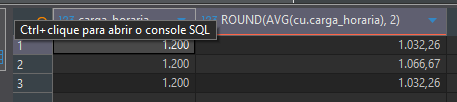
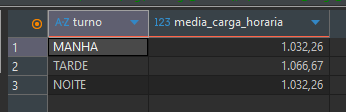
desafio: resolvendo desafios de sql do dia 12/11/25 do 6 ao 16

diff --git a/UC8/2025-11-12 - Revisão banco de dados pt2/resolvendo.md b/UC8/2025-11-12 - Revisão banco de dados pt2/resolvendo.md
@@ -6,10 +6,10 @@
 
 ```sql
 select
-	YEAR(data_nascimento) as ano,
-	COUNT(*) as total_de_alunos
+	year(data_nascimento) as ano,
+	count(id_aluno) as total_de_alunos
 from tb_alunos
-group by year (data_nascimento)
+group by year(data_nascimento)
 order by ano desc 
 ```
 
@@ -44,8 +44,8 @@ having
 
 ```sql
 select
-	cu.carga_horaria,
-	ROUND(AVG(cu.carga_horaria), 2)
+	tu.turno,
+	round(avg(cu.carga_horaria), 2) as media_carga_horaria
 from tb_turmas tu
 inner join tb_cursos cu
 	on cu.id_curso = tu.id_curso_fk 
@@ -61,14 +61,14 @@ group by tu.turno
 - Consulta:
 
 ```sql
-SELECT 
+select 
     do.nome,
-    COUNT(DISTINCT dc.id_curso_fk) AS cursos_diferentes
-FROM tb_docente_curso dc
-INNER JOIN tb_docentes do
-    ON do.id_docente = dc.id_docente_fk
-GROUP BY do.id_docente, do.nome
-HAVING COUNT(DISTINCT dc.id_curso_fk) >= 3;
+    count(dc.id_curso_fk) as cursos_diferentes
+from tb_docente_curso dc
+inner join tb_docentes do
+    on do.id_docente = dc.id_docente_fk
+group by do.id_docente, do.nome
+having cursos_diferentes >= 3
 ```
 
 - Resposta:
@@ -82,7 +82,7 @@ HAVING COUNT(DISTINCT dc.id_curso_fk) >= 3;
 ```sql
 select
     tu.sigla_turma,
-    count(*) as total_alunos
+    count(at.id_aluno_fk) as total_alunos
 from tb_aluno_turma at
 inner join tb_turmas tu
 	on tu.id_turma = at.id_turma_fk 
@@ -114,7 +114,7 @@ inner join tb_turmas tu
 inner join tb_salas sa
 	on sa.id_sala = tu.id_sala_fk 
 group by sa.id_sala, sa.numero_sala 
-having avg(t.total_alunos) < 38
+having media_usada < 38
 ```
 
 - Resposta:
@@ -125,17 +125,191 @@ having avg(t.total_alunos) < 38
 
 - Consulta:
 
+```sql
+select
+	cu.nome_curso,
+	cu.carga_horaria
+from tb_cursos as cu
+inner join tb_turmas tu
+	on tu.id_curso_fk = cu.id_curso 
+where tu.data_fim > CURRENT_DATE() or tu.data_fim is null
+order by cu.carga_horaria desc
+limit 1
+```
 
+- Resposta:
+
+![alt text](image-6.png)
 
 8.	Quais são os cursos (sigla) que possuem exatamente 150 alunos matriculados no total?
+
+- Consulta:
+
+```sql
+select
+	cu.sigla,
+	count(at.id_aluno_fk) as total_alunos
+from tb_cursos cu
+inner join tb_turmas tu
+	on tu.id_curso_fk = cu.id_curso
+inner join tb_aluno_turma at
+	on at.id_turma_fk = tu.id_turma
+group by cu.id_curso
+having total_alunos = 150
+```
+
+- Resposta:
+
+![alt text](image-7.png)
+
 9.	Encontre o nome do aluno e quantas turmas diferentes ele está matriculado, listando apenas os alunos que estão matriculados em quatro turmas ou mais.
+
+- Consulta:
+
+```sql
+select
+	al.nome,
+	count(at.id_turma_fk) as numero_turmas
+from tb_alunos al
+inner join tb_aluno_turma at
+	on at.id_aluno_fk = al.id_aluno
+group by al.id_aluno
+having numero_turmas >= 4
+order by al.nome
+```
+
+- Resposta:
+
+![alt text](image-8.png)
+
 10.	Liste a especialidade do docente e a quantidade de docentes que possuem essa especialidade, exibindo apenas as especialidades que têm apenas um docente associado.
+
+- Consulta:
+
+```sql
+select
+	especialidade,
+	count(id_docente) as docentes
+from tb_docentes
+group by especialidade
+having docentes = 1
+order by especialidade asc
+```
+
+- Resposta:
+
+![alt text](image-9.png)
+
 11.	Encontre a sala (nome e tipo) que é usada por turmas do turno 'MANHA' e possui a maior capacidade.
+
+- Consulta:
+
+```sql
+select
+	sa.nome_sala,
+	sa.tipo
+from tb_salas sa
+inner join tb_turmas tu
+	on tu.id_sala_fk = sa.id_sala
+where turno = "MANHA"
+order by sa.capacidade desc
+limit 1
+```
+
+- Resposta:
+
+![alt text](image-10.png)
+
 12.	Liste a data de nascimento e o número de alunos que nasceram nessa data, focando apenas nas datas em que nasceram pelo menos 3 alunos.
+
+- Consulta:
+
+```sql
+select
+	data_nascimento,
+	count(id_aluno ) as nasceram
+from tb_alunos
+group by data_nascimento
+having nasceram >= 3
+```
+
+- Resposta:
+
+![alt text](image-11.png)
+
 13.	Calcule o total de carga horária oferecida para cada sigla de curso.
+
+- Consulta:
+
+```sql
+select
+	sigla,
+	sum(carga_horaria)
+from tb_cursos
+group by sigla
+order by sigla
+```
+- Resposta:
+
+![alt text](image-12.png)
+
 14.	Liste o ID da sala e o número total de turmas alocadas nela, mas ignore as salas que abrigam menos de 5 turmas.
+
+- Consulta:
+
+```sql
+select
+	sa.id_sala,
+	count(tu.id_turma ) as total_turmas
+from tb_salas sa
+inner join tb_turmas tu
+	on tu.id_sala_fk = sa.id_sala
+group by sa.id_sala
+having total_turmas >= 5
+order by sa.id_sala 
+```
+
+- Resposta:
+
+![alt text](image-13.png)
+
 15.	Qual é o ID da turma que possui o menor número de alunos matriculados?
+
+- Consulta:
+
+```sql
+select
+	id_turma_fk as id_turma_menos_alunos
+from tb_aluno_turma
+group by id_turma_fk
+order by count(id_aluno_fk) asc
+limit 1
+```
+
+- Resposta
+
+![alt text](image-14.png)
+
 16.	Liste o nome do curso e a quantidade de turmas do turno 'TARDE' associadas a ele.
+
+- Consulta:
+
+```sql
+select 
+	cu.nome_curso,
+	count(tu.id_turma) as quantidade_turmas
+from tb_cursos cu
+inner join tb_turmas tu
+	on tu.id_curso_fk = cu.id_curso
+where tu.turno = "TARDE"
+group by cu.id_curso
+order by cu.nome_curso
+```
+
+- Resposta:
+
+![alt text](image-15.png)
+
 17.	Encontre o nome do docente e o nome do curso que ele é qualificado, mas apenas se o curso tiver uma carga_horaria de exatamente 800 horas.
 18.	Liste o nome do curso e o número de turmas que iniciaram em '2024-02-01'.
 19.	Quais são as turmas (sigla) que têm o nome do aluno matriculado começando com a letra 'A' (LIKE 'A%') e possuem mais de 3 alunos cujo nome se encaixa nesse critério?
